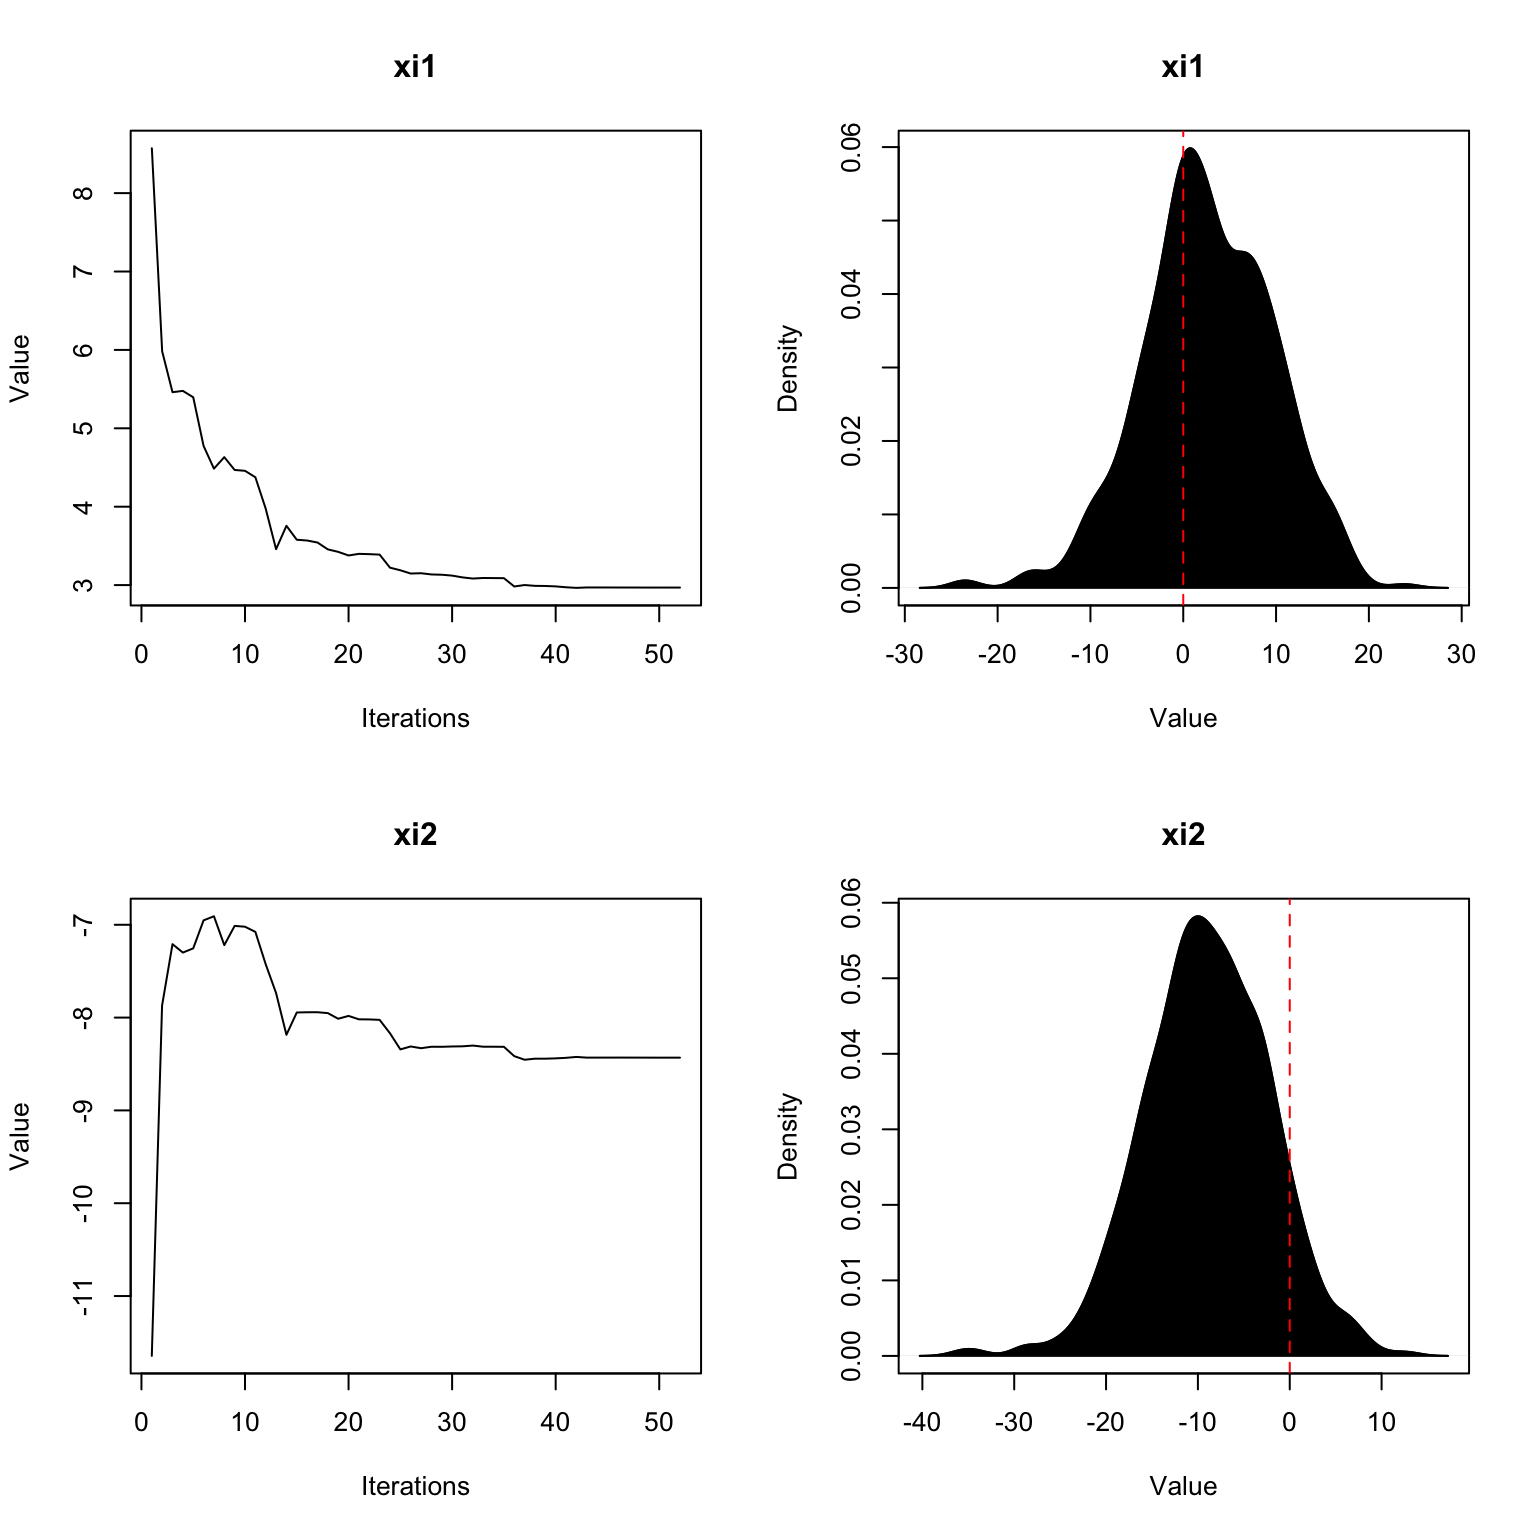
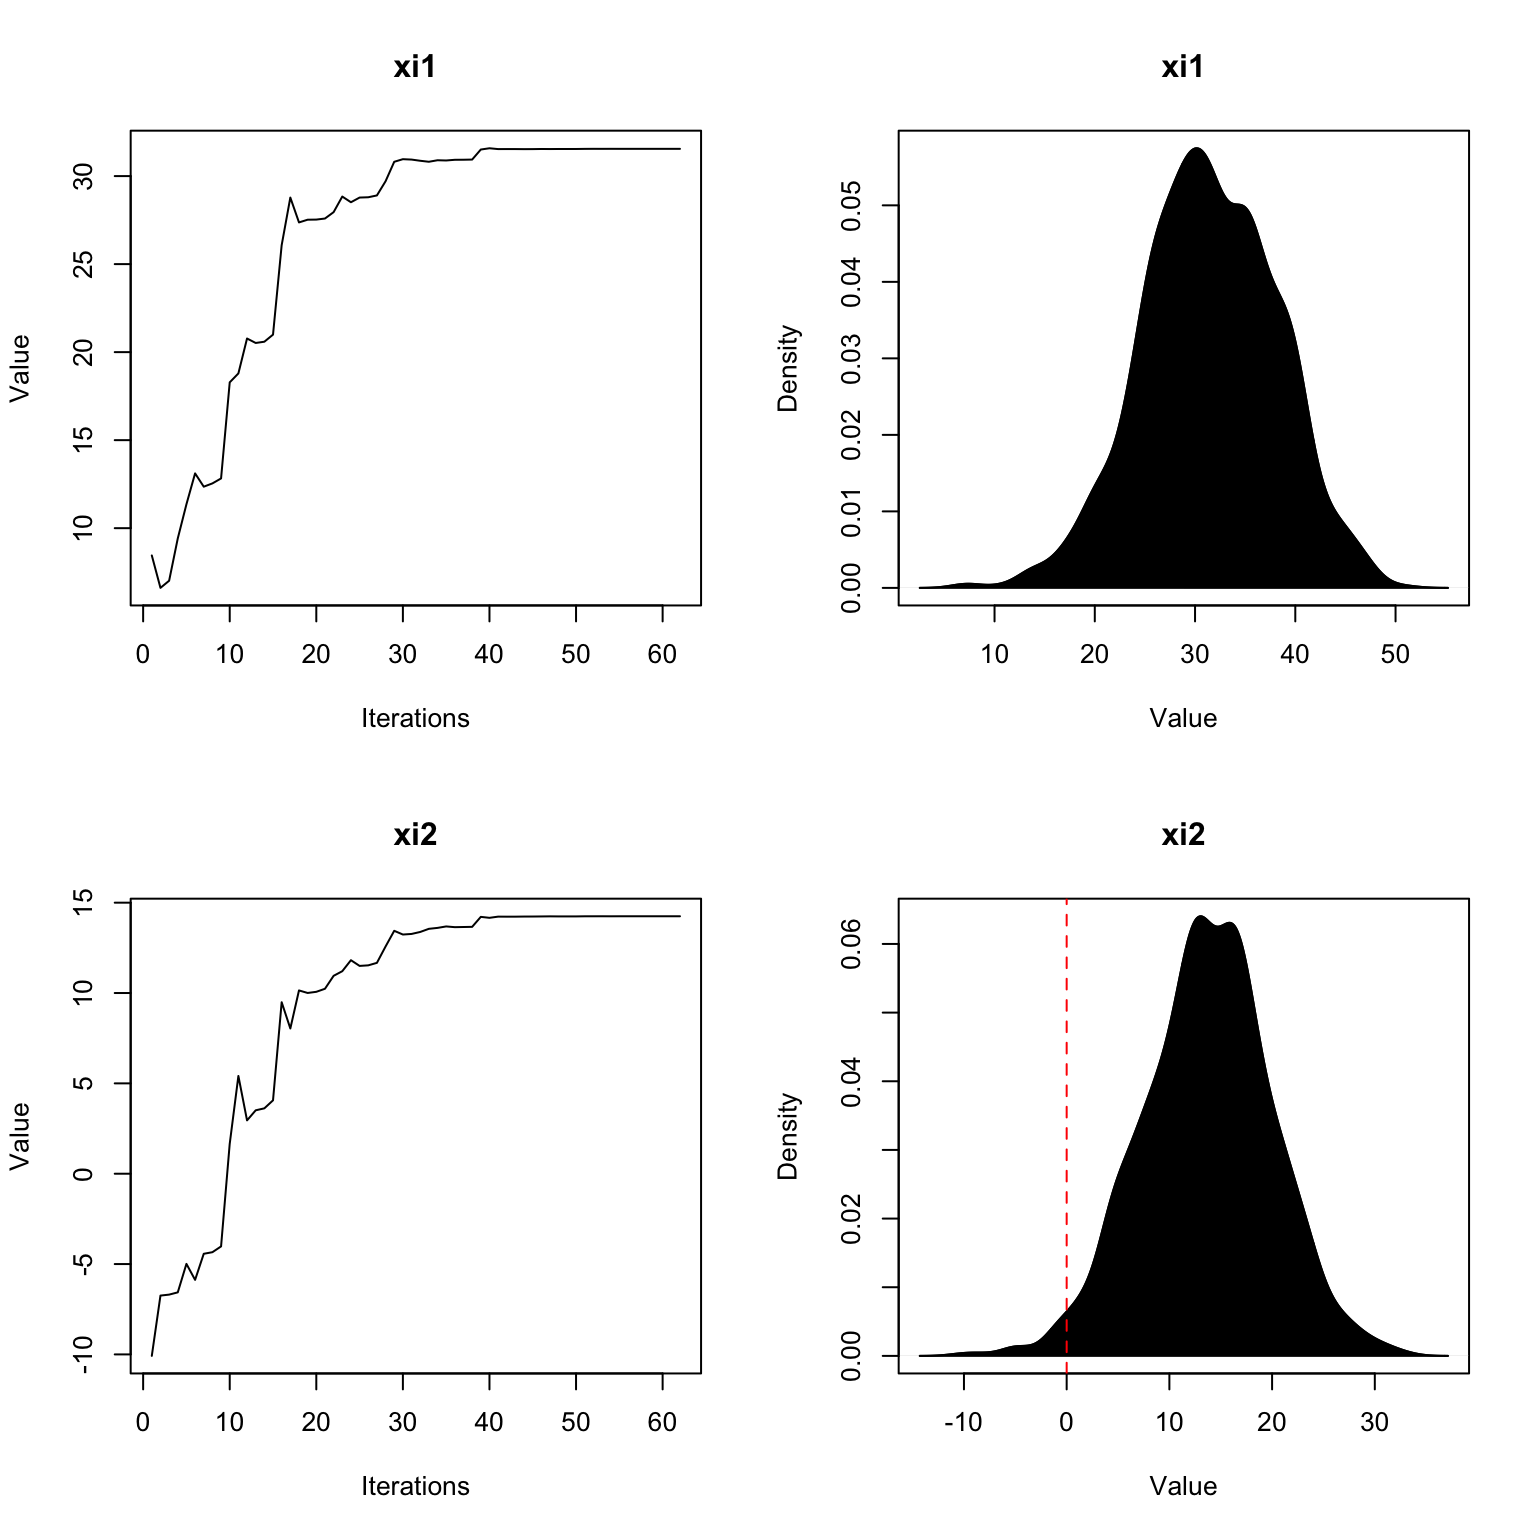
more formatting

diff --git a/Docs/ProgressReport.html b/Docs/ProgressReport.html
@@ -277,15 +277,18 @@ df %&gt;%
   geom_point(aes(x=sind, y=Z), size = 0.5)+
   facet_wrap(~SEQN)+
   labs(x=&quot;Time&quot;, y = &quot;Activity&quot;, title = &quot;A brief overview of the outcome&quot;)</code></pre>
-<p><img src="ProgressReport_files/figure-html/unnamed-chunk-2-1.png" width="672" />
-## fGFPCA model fitting</p>
+<p><img src="ProgressReport_files/figure-html/unnamed-chunk-2-1.png" width="672" /></p>
+</div>
+<div id="fgfpca-model-fitting" class="section level2" number="1.2">
+<h2><span class="header-section-number">1.2</span> fGFPCA model
+fitting</h2>
 <pre class="r"><code># code
 source(here(&quot;Code/GLMM-FPCA.R&quot;)) 
 # use pred_latent function to estimate latent function 
 source(here(&quot;Code/OutSampMLE.R&quot;))
 # source(here(&quot;Code/OutsampBayes.R&quot;))</code></pre>
-<div id="bin-data" class="section level3" number="1.1.1">
-<h3><span class="header-section-number">1.1.1</span> Bin Data</h3>
+<div id="bin-data" class="section level3" number="1.2.1">
+<h3><span class="header-section-number">1.2.1</span> Bin Data</h3>
 <ul>
 <li>Bin every 10 consecutive observations</li>
 </ul>
@@ -311,8 +314,8 @@ df %&gt;%
 <p><img src="ProgressReport_files/figure-html/unnamed-chunk-4-1.png" width="672" /></p>
 <pre class="r"><code>df &lt;- df %&gt;% rename(id = SEQN, Y=Z)</code></pre>
 </div>
-<div id="data-split" class="section level3" number="1.1.2">
-<h3><span class="header-section-number">1.1.2</span> Data split</h3>
+<div id="data-split" class="section level3" number="1.2.2">
+<h3><span class="header-section-number">1.2.2</span> Data split</h3>
 <pre class="r"><code>id_vec &lt;- unique(df$id)
 train_id &lt;- sample(id_vec, size = 0.8*N, replace = FALSE) # 7010 subjects for training
 test_id &lt;- setdiff(id_vec, train_id) # 1753 subjects for testing</code></pre>
@@ -321,8 +324,8 @@ test_id &lt;- setdiff(id_vec, train_id) # 1753 subjects for testing</code></pre>
 out-of-sample prediction</li>
 </ul>
 </div>
-<div id="local-glmm" class="section level3" number="1.1.3">
-<h3><span class="header-section-number">1.1.3</span> Local GLMM</h3>
+<div id="local-glmm" class="section level3" number="1.2.3">
+<h3><span class="header-section-number">1.2.3</span> Local GLMM</h3>
 <ul>
 <li>Used glmer with PIRLS (nAGQ=0) for local GLMMs step</li>
 <li>Fit on the training set</li>
@@ -341,7 +344,7 @@ t_local_glmm &lt;- t2-t1 </code></pre>
   select(-sind, -Y) %&gt;% distinct(.) 
 # example estimated latent function
 df %&gt;% 
-  filter(id %in% sample(train_id, size = 4)) %&gt;%
+  filter(id %in% rand_id) %&gt;%
   left_join(df_est_latent, by = c(&quot;id&quot;, &quot;bin&quot;)) %&gt;%
   mutate(eta_hat = exp(eta_hat)/(1+exp(eta_hat))) %&gt;%
   ggplot()+
@@ -349,6 +352,7 @@ df %&gt;%
   geom_point(aes(x=sind, y = Y, group = id), size = 0.5)+
   facet_wrap(~id, scales = &quot;free&quot;)+
   labs(x = &quot;Time&quot;, y = &quot;Estimated latent function (probablity scale)&quot;)</code></pre>
+<pre><code>## Warning: Removed 1440 rows containing missing values (`geom_line()`).</code></pre>
 <p><img src="ProgressReport_files/figure-html/unnamed-chunk-7-1.png" width="672" /></p>
 <pre class="r"><code>df %&gt;% 
   filter(id %in% sample(train_id, size = 4)) %&gt;%
@@ -362,8 +366,8 @@ df %&gt;%
   labs(x=&quot;Time&quot;, y = &quot;Estimated latent function (original scale&quot;)</code></pre>
 <p><img src="ProgressReport_files/figure-html/unnamed-chunk-8-1.png" width="672" /></p>
 </div>
-<div id="fpca" class="section level3" number="1.1.4">
-<h3><span class="header-section-number">1.1.4</span> FPCA</h3>
+<div id="fpca" class="section level3" number="1.2.4">
+<h3><span class="header-section-number">1.2.4</span> FPCA</h3>
 <pre class="r"><code>mat_est_unique &lt;- matrix(df_est_latent$eta_hat,
                          nrow=length(train_id), 
                          ncol=n_bin, byrow = F) # row index subject, column binned time
@@ -387,17 +391,15 @@ plot(mid, fpca_mod$efunctions[, 3], type=&quot;l&quot;, xlab=&quot;bin&quot;, yl
 plot(mid, fpca_mod$efunctions[, 4], type=&quot;l&quot;, xlab=&quot;bin&quot;, ylab=&quot;PC4&quot;)</code></pre>
 <p><img src="ProgressReport_files/figure-html/unnamed-chunk-11-1.png" width="768" /></p>
 <pre class="r"><code># plot correlation matrix
-sum(fpca_mod$VarMats[[1]]!=fpca_mod$VarMats[[2]]) </code></pre>
-<pre><code>## [1] 0</code></pre>
-<pre class="r"><code>heatmap(cov2cor(fpca_mod$VarMats[[1]]), Rowv = NA, Colv = NA, main = &quot;Correlation&quot;)</code></pre>
+heatmap(cov2cor(fpca_mod$VarMats[[1]]), Rowv = NA, Colv = NA, main = &quot;Correlation&quot;)</code></pre>
 <p><img src="ProgressReport_files/figure-html/unnamed-chunk-12-1.png" width="672" /></p>
 </div>
-<div id="debias" class="section level3" number="1.1.5">
-<h3><span class="header-section-number">1.1.5</span> Debias?</h3>
+<div id="debias" class="section level3" number="1.2.5">
+<h3><span class="header-section-number">1.2.5</span> Debias?</h3>
 </div>
 </div>
-<div id="out-of-sample-prediction" class="section level2" number="1.2">
-<h2><span class="header-section-number">1.2</span> Out-of-sample
+<div id="out-of-sample-prediction" class="section level2" number="1.3">
+<h2><span class="header-section-number">1.3</span> Out-of-sample
 prediction</h2>
 <p>follow up on the last report, I’ll add some details here.</p>
 <p>Let’s set:</p>
@@ -408,7 +410,8 @@ s</li>
 <li><span class="math inline">\(\mathscr{T}_s\)</span>: all observation
 points in bin s</li>
 <li><span class="math inline">\(Y_i^s\)</span> all observations in bin s
-from subject i</li>
+from subject i. <span class="math inline">\(Y_i^S := \{Y_i(t_j), t_j \in
+\mathscr{T}_s\}\)</span></li>
 </ul>
 <p>Let’s assume we have a new subject <span
 class="math inline">\(u\)</span> with maximum observation time <span
@@ -425,7 +428,7 @@ class="math inline">\(\hat{\mu}_0\)</span>, <span
 class="math inline">\(\hat{\phi}_k\)</span>, as well as the variance
 estimates of <span class="math inline">\(\xi_k\)</span>: <span
 class="math inline">\(\hat{\lambda}_k\)</span>, and variance of residual
-process <span class="math inline">\(\hat{\sigma}^2\)</span>.</p>
+process <span class="math inline">\(\hat{\sigma^2}\)</span>.</p>
 <p>With all these estimates, we wanna use Laplace approximation to find
 the <span class="math inline">\(\xi_{uk}\)</span> that maximizes <span
 class="math inline">\(l_u\)</span>.</p>
@@ -453,7 +456,7 @@ approximation procedure:</p>
 \hat{\lambda}_k)\)</span></li>
 <li>Posterior distribution:</li>
 </ul>
-For a single bin $$
+$$
 <span class="math display">\[\begin{aligned}
 l(\mathbf{Y_u}|\mathbf{\xi}_u) &amp;=
 \sum_{t_{m_s}&lt;T_u}l(Y_u^s|\mathbf{\xi}_u) \\
@@ -463,7 +466,8 @@ Y_u^s|\mathbf{\xi}_u &amp; \sim Binomial(n_s, p_s) \\
 g^{-1}(p_s) = \hat{\eta}(t_{m_s}) &amp;=
 \hat{\mu}_0(t_{m_s})+\sum_{k=1}^K \xi_{uk}\hat{\phi}(t_{m_s})
 \end{aligned}\]</span>
-<p>$$ And <span class="math inline">\(n_s\)</span> is the number of
+<p>$$</p>
+<p>And <span class="math inline">\(n_s\)</span> is the number of
 observations in bin s.</p>
 <p>Bayes theroem:</p>
 <p><span class="math display">\[
@@ -491,7 +495,7 @@ Model &lt;- function(parm, Data){
 <ul>
 <li>Then we feed in data for one observation</li>
 </ul>
-<pre class="r fold-show"><code>rand_id &lt;- sample(test_id, 1)
+<pre class="r fold-show"><code>rand_id &lt;- test_id[15]
 df_new &lt;- df %&gt;% filter(id == rand_id &amp; sind &lt;= 540) # observation until 9am
 
 # put data into correct format
@@ -529,11 +533,12 @@ Fit &lt;- LaplaceApproximation(Model, Data=MyData)</code></pre>
 ## have been set to zero prior to LaplaceApproximation().
 ## Sample Size:  54 
 ## Laplace Approximation begins...
-## Iteration:  10  of  100 ,   LP:  -55.7 
-## Iteration:  20  of  100 ,   LP:  -55.6 
-## Iteration:  30  of  100 ,   LP:  -55.6 
-## Iteration:  40  of  100 ,   LP:  -55.6 
-## Iteration:  50  of  100 ,   LP:  -55.6 
+## Iteration:  10  of  100 ,   LP:  -72.4 
+## Iteration:  20  of  100 ,   LP:  -68.7 
+## Iteration:  30  of  100 ,   LP:  -68.6 
+## Iteration:  40  of  100 ,   LP:  -68.5 
+## Iteration:  50  of  100 ,   LP:  -68.5 
+## Iteration:  60  of  100 ,   LP:  -68.5 
 ## Estimating the Covariance Matrix
 ## Sampling from Posterior with Sampling Importance Resampling
 ## Creating Summary from Point-Estimates
@@ -552,17 +557,17 @@ print(Fit)</code></pre>
 ## Converged: TRUE
 ## Covariance Matrix: (NOT SHOWN HERE; diagonal shown instead)
 ##       xi1       xi2       xi3       xi4 
-## 52.078028 48.809826  7.015795  8.307940 
+## 43.853857 39.604572  7.058457 10.894559 
 ## 
-## Deviance (Final):  83.26895 
+## Deviance (Final):  100.8664 
 ## History: (NOT SHOWN HERE)
 ## Initial Values:
 ## [1] 0 0 0 0
 ## 
-## Iterations: 53
-## Log(Marginal Likelihood): -33.32948
-## Log-Posterior (Final): -55.63272
-## Log-Posterior (Initial): -174.2045
+## Iterations: 63
+## Log(Marginal Likelihood): -36.37464
+## Log-Posterior (Final): -68.49917
+## Log-Posterior (Initial): -169.8166
 ## Minutes of run-time: 0
 ## Monitor: (NOT SHOWN HERE)
 ## Posterior: (NOT SHOWN HERE)
@@ -570,24 +575,24 @@ print(Fit)</code></pre>
 ## Step Size (Initial): 1
 ## Summary1: (SHOWN BELOW)
 ## Summary2: (SHOWN BELOW)
-## Tolerance (Final): 8.114398e-06
+## Tolerance (Final): 1.932676e-06
 ## Tolerance (Stop): 1e-05
 ## 
 ## Summary1:
-##          Mode       SD          LB        UB
-## xi1  2.968409 7.216511 -11.4646125 17.401431
-## xi2 -8.431582 6.986403 -22.4043882  5.541223
-## xi3  4.369053 2.648735  -0.9284162  9.666522
-## xi4  8.057258 2.882350   2.2925579 13.821957
+##          Mode       SD        LB        UB
+## xi1 31.548354 6.622224 18.303905 44.792803
+## xi2 14.247931 6.293216  1.661498 26.834363
+## xi3  1.778145 2.656776 -3.535406  7.091696
+## xi4 10.146144 3.300691  3.544763 16.747526
 ## 
 ## Summary2:
-##                Mode       SD       MCSE  ESS         LB     Median         UB
-## xi1        2.699169 7.022473 0.22207010 1000 -10.849711   2.604072  15.937089
-## xi2       -8.942338 6.819014 0.21563615 1000 -22.236861  -8.954071   4.130742
-## xi3        3.988738 2.603018 0.08231465 1000  -1.926881   3.986919   8.845341
-## xi4        8.226220 2.741981 0.08670905 1000   2.847593   8.178359  13.650594
-## Deviance  85.935749 2.982565 0.09431700 1000  82.340217  85.188970  93.528917
-## LP       -57.653994 1.537207 0.04861074 1000 -61.821235 -57.233324 -55.873086</code></pre>
+##                Mode       SD       MCSE  ESS         LB    Median         UB
+## xi1       31.464763 6.684349 0.21137767 1000  17.976682  31.31260  44.140356
+## xi2       13.680542 6.281579 0.19864096 1000   1.438422  13.61012  25.713624
+## xi3        1.263562 2.742649 0.08673019 1000  -4.962504   1.35873   6.351043
+## xi4       10.152744 3.242481 0.10253627 1000   3.556399  10.19438  16.769759
+## Deviance 103.939259 5.946755 0.18805291 1000  93.027527 103.63877 116.187683
+## LP       -70.560984 1.501012 0.04746616 1000 -74.430162 -70.21294 -68.724827</code></pre>
 <pre class="r fold-show"><code>plot(Fit, MyData)</code></pre>
 <p><img src="ProgressReport_files/figure-html/unnamed-chunk-17-1.png" width="768" /><img src="ProgressReport_files/figure-html/unnamed-chunk-17-2.png" width="768" /><img src="ProgressReport_files/figure-html/unnamed-chunk-17-3.png" width="768" /></p>
 <pre class="r"><code># prediction
